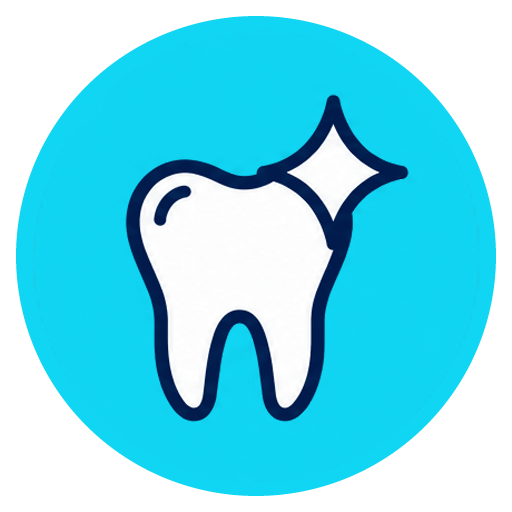
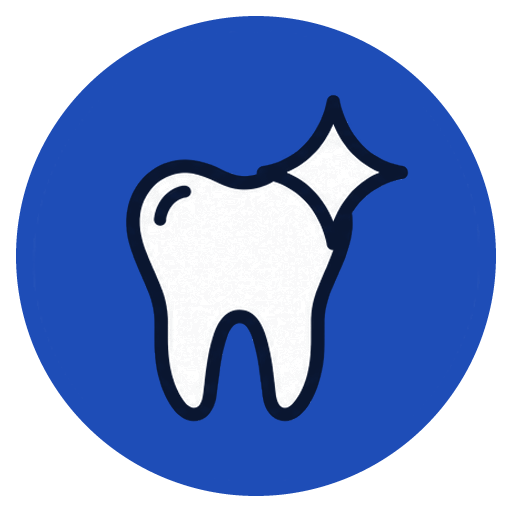
Ícones de tratamento conforme o fundo e camada atrás do dropdown "Serviços"
- Ícones regerados a partir dos originais ciano: versão com círculo azul
  royal (substitui o original) e nova versão "-claro" com círculo
  azul-claro para fundos escuros
- clinicConfig.treatmentImagesDark com as versões "-claro"
- TreatmentIcon (surface "auto" troca conforme o tema; "dark" usa sempre
  a versão clara): Tratamentos e dropdown "Serviços" em auto, menu em
  tela cheia em dark
- Dropdown "Serviços": camada bg-black/45 com desfoque abaixo do
  cabeçalho (portal, fade de 150ms, sem animação com motion-reduce);
  clicar nela fecha o dropdown sem acionar o que está por baixo

Claude-Session: https://claude.ai/code/session_01SWsTZUJHQoUcLA9Ukfac8u

diff --git a/src/components/landing/TreatmentCards.tsx b/src/components/landing/TreatmentCards.tsx
@@ -3,6 +3,7 @@ import { ArrowUpRight } from "lucide-react";
 import { Button } from "@/components/ui/button";
 import { SheetClose } from "@/components/ui/sheet";
 import { clinicConfig } from "@/config/clinicConfig";
+import { TreatmentIcon } from "@/components/landing/TreatmentIcon";
 
 export function TreatmentCards({
   variant,
@@ -35,7 +36,6 @@ export function TreatmentCards({
         </h2>
         <div className="grid grid-cols-5 gap-4">
           {clinicConfig.treatments.map((treatment) => {
-            const imageSrc = treatment.image;
             const treatmentHref = `/#tratamento-${treatment.id}`;
             return (
               <a
@@ -49,13 +49,9 @@ export function TreatmentCards({
               >
                 <span className="flex w-full items-center justify-center">
                   <span className="relative inline-flex">
-                    <img
-                      src={imageSrc}
-                      width={512}
-                      height={512}
-                      loading="lazy"
-                      decoding="async"
-                      alt=""
+                    <TreatmentIcon
+                      id={treatment.id}
+                      surface="auto"
                       className="h-16 w-16 object-contain transition-transform duration-200 motion-reduce:transition-none group-hover:scale-[1.02] group-focus-visible:scale-[1.02]"
                     />
                     <ArrowUpRight
@@ -83,7 +79,6 @@ export function TreatmentCards({
         </h2>
         <div className="grid grid-cols-2 gap-2">
           {clinicConfig.treatments.map((treatment, index) => {
-            const imageSrc = treatment.image;
             const whatsappUrl = `https://wa.me/${clinicConfig.contact.whatsapp}?text=${encodeURIComponent(
               treatment.message,
             )}`;
@@ -97,13 +92,9 @@ export function TreatmentCards({
                   className={`group flex min-h-16 min-w-0 items-center gap-3 rounded-xl border border-hero-on-video/15 bg-transparent p-2 text-base font-semibold text-hero-on-video transition-colors duration-200 hover:bg-secondary hover:text-foreground focus-visible:bg-secondary focus-visible:text-foreground focus-visible:outline-none focus-visible:ring-2 focus-visible:ring-gold motion-reduce:transition-none ${isLast ? "col-span-2" : ""}`}
                 >
                   <span className="relative inline-flex shrink-0">
-                    <img
-                      src={imageSrc}
-                      width={512}
-                      height={512}
-                      loading="lazy"
-                      decoding="async"
-                      alt=""
+                    <TreatmentIcon
+                      id={treatment.id}
+                      surface="dark"
                       className="h-12 w-12 object-contain transition-transform duration-200 motion-reduce:transition-none group-hover:scale-[1.02] group-focus-visible:scale-[1.02]"
                     />
                   </span>
@@ -126,7 +117,6 @@ export function TreatmentCards({
       </h2>
       <div className="grid grid-cols-2 gap-3 lg:grid-cols-3 xl:grid-cols-5">
         {clinicConfig.treatments.map((treatment, index) => {
-          const imageSrc = treatment.image;
           const treatmentHref = `/#tratamento-${treatment.id}`;
           const isLast = index === clinicConfig.treatments.length - 1;
           return (
@@ -143,13 +133,9 @@ export function TreatmentCards({
                 >
                   <span className="flex w-full items-center justify-center">
                     <span className="relative inline-flex">
-                      <img
-                        src={imageSrc}
-                        width={512}
-                        height={512}
-                        loading="lazy"
-                        decoding="async"
-                        alt=""
+                      <TreatmentIcon
+                        id={treatment.id}
+                        surface="dark"
                         className="h-16 w-16 object-contain transition-transform duration-200 motion-reduce:transition-none group-hover:scale-[1.02] group-focus-visible:scale-[1.02] lg:h-20 lg:w-20"
                       />
                       <ArrowUpRight

diff --git a/src/components/landing/Header.tsx b/src/components/landing/Header.tsx
@@ -1,4 +1,5 @@
-import { useEffect, useState } from "react";
+import { useEffect, useRef, useState } from "react";
+import { createPortal } from "react-dom";
 import { clinicConfig } from "@/config/clinicConfig";
 import icon from "@/assets/reabilitar-icon.png";
 import iconNegativo from "@/assets/reabilitar-icon-negativo.png";
@@ -30,6 +31,7 @@ export function Header({ overVideo = false }: { overVideo?: boolean }) {
   const [scrolled, setScrolled] = useState(false);
   const [menuOpen, setMenuOpen] = useState(false);
   const [servicesOpen, setServicesOpen] = useState(false);
+  const servicesBackdropRef = useRef<HTMLDivElement>(null);
   const { open: openContactPanel } = useContactPanel();
 
   // Menu em tela cheia e dropdown "Serviços" nunca ficam abertos ao mesmo tempo.
@@ -118,6 +120,13 @@ export function Header({ overVideo = false }: { overVideo?: boolean }) {
             <PopoverContent
               align="start"
               sideOffset={12}
+              // Clique na camada escurecida: fecha no "click" (abaixo), não no
+              // pointerdown, para o clique não atravessar até a página.
+              onPointerDownOutside={(event) => {
+                if (servicesBackdropRef.current?.contains(event.target as Node)) {
+                  event.preventDefault();
+                }
+              }}
               className="menu-services-panel w-[min(92vw,64rem)] rounded-3xl border border-border/60 bg-secondary p-6 text-foreground shadow-2xl"
             >
               <span className="mb-4 block text-xs font-semibold uppercase tracking-wider text-foreground/60">
@@ -126,6 +135,18 @@ export function Header({ overVideo = false }: { overVideo?: boolean }) {
               <TreatmentCards variant="dropdown" onSelect={() => setServicesOpen(false)} />
             </PopoverContent>
           </Popover>
+          {/* Dropdown "Serviços" aberto: camada escurecida sob o cabeçalho (portal no
+              body, abaixo do cabeçalho z-40 e do painel z-50). Clicar nela fecha. */}
+          {servicesOpen &&
+            createPortal(
+              <div
+                ref={servicesBackdropRef}
+                aria-hidden="true"
+                onClick={() => setServicesOpen(false)}
+                className="fixed inset-x-0 bottom-0 top-[calc(5rem+env(safe-area-inset-top))] z-30 bg-black/45 backdrop-blur-sm animate-in fade-in-0 duration-150 motion-reduce:animate-none"
+              />,
+              document.body,
+            )}
         </div>
 
         {/* Direita: tema e telefone (lg+) + CTA */}

diff --git a/src/components/landing/TreatmentsSection.tsx b/src/components/landing/TreatmentsSection.tsx
@@ -2,6 +2,7 @@ import { useEffect } from "react";
 import { clinicConfig } from "@/config/clinicConfig";
 import { useContactPanel } from "@/components/landing/ContactPanel";
 import { Reveal, REVEAL_STAGGER_MS } from "@/components/landing/Reveal";
+import { TreatmentIcon } from "@/components/landing/TreatmentIcon";
 
 const TREATMENT_HASH_PREFIX = "#tratamento-";
 
@@ -15,7 +16,7 @@ const CARD_HOVER =
  * Links diretos: /#tratamento-{id} rola até a seção.
  */
 export function TreatmentsSection() {
-  const { treatments, treatmentImages, contact } = clinicConfig;
+  const { treatments, contact } = clinicConfig;
   const { open: openContactPanel } = useContactPanel();
 
   useEffect(() => {
@@ -65,13 +66,9 @@ export function TreatmentsSection() {
               id={`tratamento-${treatment.id}`}
               className={`grid grid-cols-[3.5rem_minmax(0,1fr)] gap-x-4 rounded-3xl border border-border/70 bg-card p-5 md:flex md:h-full md:flex-col md:p-7 ${CARD_HOVER}`}
             >
-              <img
-                src={treatmentImages[treatment.id]}
-                alt=""
-                width={512}
-                height={512}
-                loading="lazy"
-                decoding="async"
+              <TreatmentIcon
+                id={treatment.id}
+                surface="auto"
                 className="row-span-4 h-14 w-14 object-contain md:h-[72px] md:w-[72px]"
               />
               <h3 className="col-start-2 font-heading text-[22px] font-semibold text-foreground md:mt-5">

diff --git a/src/config/clinicConfig.ts b/src/config/clinicConfig.ts
@@ -17,6 +17,12 @@ import iconeImplantesCirurgia from "@/assets/treatments/icone-implantes-cirurgia
 import iconeProtese from "@/assets/treatments/icone-protese.png";
 import iconeClinicaGeral from "@/assets/treatments/icone-clinica-geral.png";
 import iconeEstetica from "@/assets/treatments/icone-estetica.png";
+// Versões com círculo azul-claro, para fundos escuros.
+import iconeOrtodontiaClaro from "@/assets/treatments/icone-ortodontia-claro.png";
+import iconeImplantesCirurgiaClaro from "@/assets/treatments/icone-implantes-cirurgia-claro.png";
+import iconeProteseClaro from "@/assets/treatments/icone-protese-claro.png";
+import iconeClinicaGeralClaro from "@/assets/treatments/icone-clinica-geral-claro.png";
+import iconeEsteticaClaro from "@/assets/treatments/icone-estetica-claro.png";
 
 export const clinicConfig = {
   brand: {
@@ -56,6 +62,15 @@ export const clinicConfig = {
     protese: iconeProtese,
     "clinica-geral": iconeClinicaGeral,
     estetica: iconeEstetica,
+  },
+
+  // Mesmos ícones para fundos escuros (tema escuro e menu azul-marinho).
+  treatmentImagesDark: {
+    ortodontia: iconeOrtodontiaClaro,
+    "implantes-cirurgia": iconeImplantesCirurgiaClaro,
+    protese: iconeProteseClaro,
+    "clinica-geral": iconeClinicaGeralClaro,
+    estetica: iconeEsteticaClaro,
   },
 
   treatments: [

diff --git a/src/components/landing/TreatmentIcon.tsx b/src/components/landing/TreatmentIcon.tsx
@@ -1,0 +1,41 @@
+import { clinicConfig } from "@/config/clinicConfig";
+import { cn } from "@/lib/utils";
+
+const lightIcons: Record<string, string> = clinicConfig.treatmentImages;
+const darkIcons: Record<string, string> = clinicConfig.treatmentImagesDark;
+
+/**
+ * TreatmentIcon - ícone do tratamento conforme o fundo (decorativo, alt="").
+ * - surface "auto": círculo azul royal no tema claro e azul-claro no escuro
+ *   (troca só por CSS, sem divergência na hidratação).
+ * - surface "dark": sempre azul-claro, para fundos escuros nos dois temas
+ *   (ex.: menu em tela cheia azul-marinho).
+ */
+export function TreatmentIcon({
+  id,
+  surface = "auto",
+  className,
+}: {
+  id: string;
+  surface?: "auto" | "dark";
+  className?: string;
+}) {
+  const imgProps = {
+    alt: "",
+    width: 512,
+    height: 512,
+    loading: "lazy" as const,
+    decoding: "async" as const,
+  };
+
+  if (surface === "dark") {
+    return <img src={darkIcons[id]} {...imgProps} className={className} />;
+  }
+
+  return (
+    <>
+      <img src={lightIcons[id]} {...imgProps} className={cn(className, "dark:hidden")} />
+      <img src={darkIcons[id]} {...imgProps} className={cn(className, "hidden dark:block")} />
+    </>
+  );
+}
